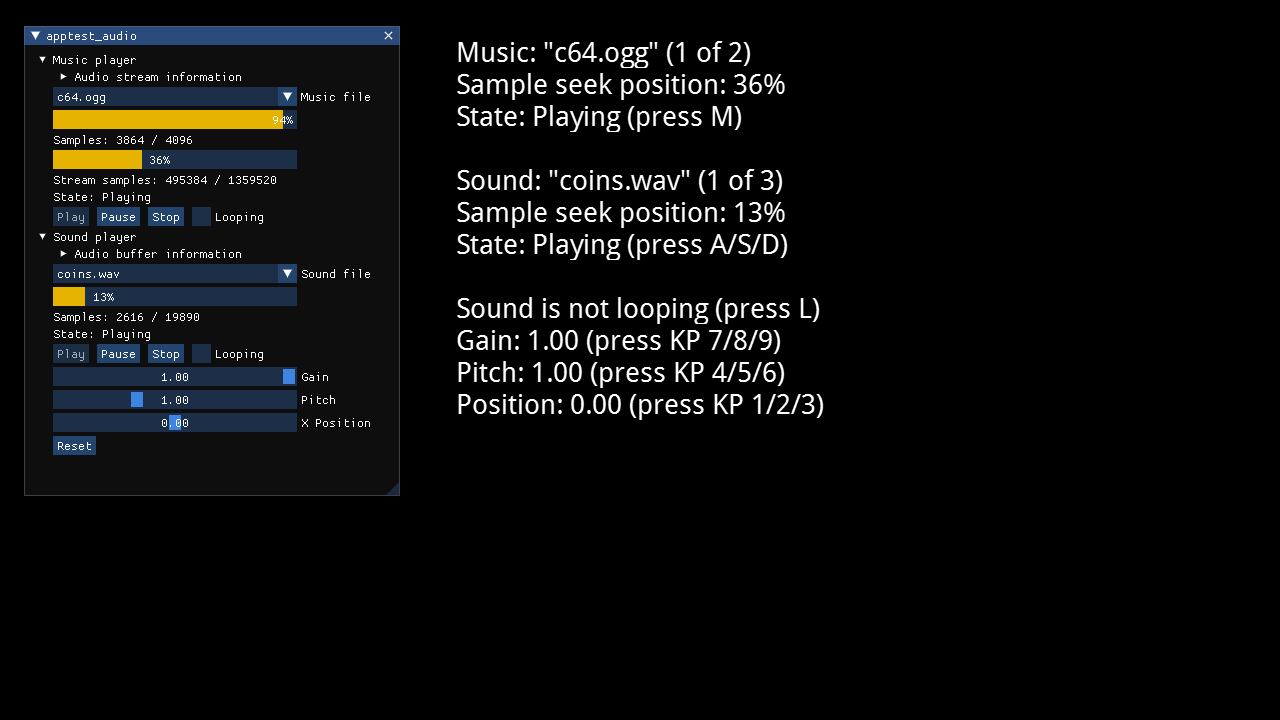
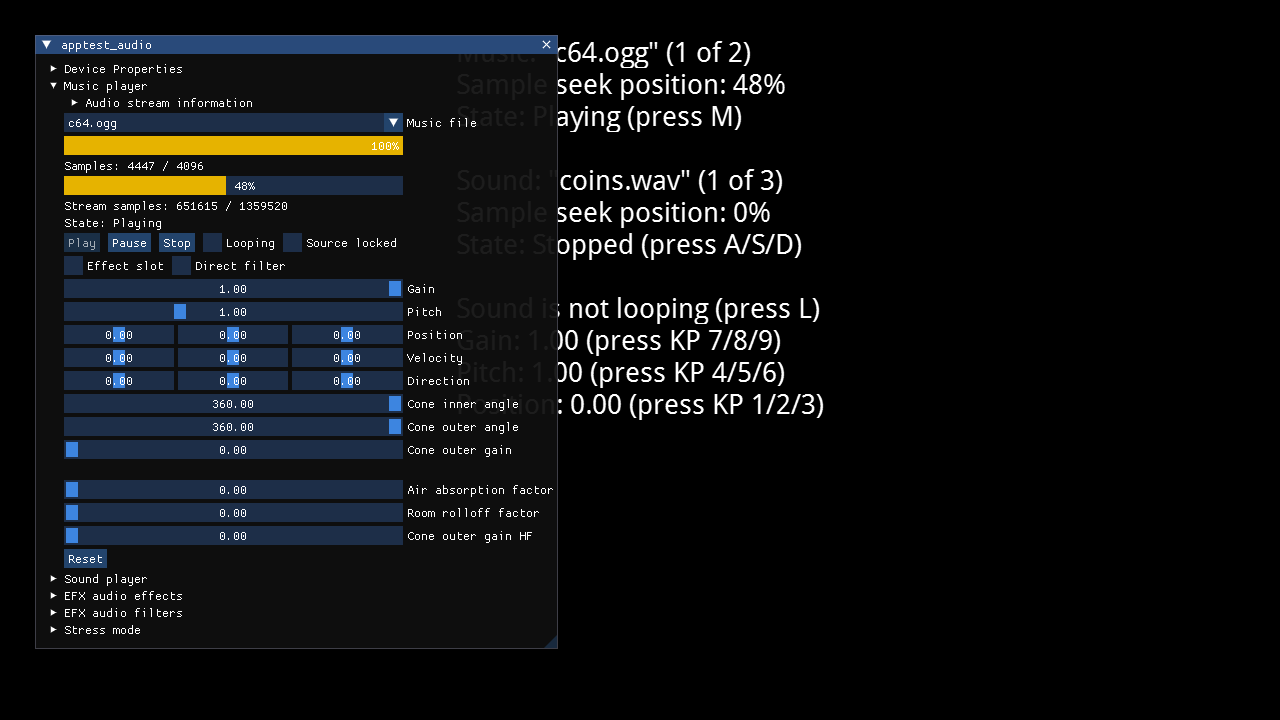
Add a new post in the news section with an image
- Update the changelog page
- Add the new features to the sound features page
- Update the web tests entry and screenshot of the audio apptest
- Reorder the long-term roadmap entries

diff --git a/web-tests.md b/web-tests.md
@@ -168,7 +168,7 @@ Pressing `Escape` on the keyboard will quit the application.
 ![apptest_audio](/img/apptests/apptest_audio.png "apptest_audio"){: .center-block :}
 
 This test shows how to play sound effects with an `AudioBufferPlayer`, and how to play music using an `AudioStreamPlayer`.
-It also allows you to play and pause the music or the sound and to change some properties.
+It also allows you to change some player properties and apply effects and filters.
 If the nCine has been compiled with ImGui some of those properties can be tweaked with an interface.
 
 **Controls**:
@@ -176,6 +176,7 @@ If the nCine has been compiled with ImGui some of those properties can be tweake
 - Pressing `Space` on the keyboard or `B` on the gamepad will play or pause the sound
 - Pressing `A`/`S`/`D` will play/stop/pause the sound
 - Pressing `L` will toggle sound looping
+- Pressing `T` will start or stop the stress test for audio sources
 
 Change the pitch, gain, and horizontal position of the sound with the numeric keypad or the gamepad:
 - Pressing `KP7`/`KP8`/`KP9` will decrease/reset/increase the pitch (use the right trigger on the gamepad)
@@ -185,6 +186,7 @@ Change the pitch, gain, and horizontal position of the sound with the numeric ke
 
 - Pressing the left/right arrow keys or D-pad directions, or the left bumper will change the music file
 - Pressing the up/down arrow keys or D-pad directions, or the right bumper will change the sound file
+- Pressing the `Start` on the gamepad will start or stop the stress test for audio sources
 - Use the mouse, the keyboard, the gamepad, or the touch screen to interact with the ImGui interface.
 - Pressing `CTRL + H` on the keyboard will show or hide the ImGui interface
 - Pressing `Escape` on the keyboard will quit the application

diff --git a/changelog.md b/changelog.md
@@ -4,6 +4,38 @@ title: Changelog
 permalink: /changelog/
 ---
 
+## June 2024
+
+### Breaking Changes
+
+### New Features
+- Added many new OpenAL source properties to the audio players
+- Add support for some useful OpenAL extensions
+  - `pause_device`, `deferred_updates`, `source_spatialize`
+- Added optional support for EFX effects and filters, also in the Lua API
+
+### Improvements
+- The sound sources are now arranged in a pool for the players to pick, fixing some issues with playing
+- Handling the `OV_HOLE` vorbisfile error code by continue decoding instead of fatal asserting
+- Added a stress test mode to `apptest_audio`
+- Add support for joystick axes mapped as buttons
+- The version of the integrated ImGui has been updated to [v1.90.8](https://github.com/ocornut/imgui/releases/tag/v1.90.8)
+- The version of the integrated Google Benchmark has been updated to [v1.8.4](https://github.com/google/benchmark/releases/tag/v1.8.4)
+
+### Fixes
+- Fixed a couple of alignment faults with Emscripten and some apptests
+
+## April 2024
+
+### Breaking Changes
+- Rename `nc::IAudioDevice::PlayerType::AUDIOSTREAM` to `nc::IAudioDevice::PlayerType::STREAM`
+
+## March 2024
+
+### Breaking Changes
+- The `freezePlayers()`/`unfreezePlayers()` methods of the audio device have been removed
+  - The Lua functions `freeze_players()`/`unfreeze_players()` have been removed too
+
 ## February 2024
 
 ### Improvements

diff --git a/features.md b/features.md
@@ -28,10 +28,11 @@ permalink: /features/
 
 ## Long-term roadmap
 
-- Add an ECS system with space partioning for scene culling
-- Abstract the rendering API and add a Vulkan implementation
+- Create a multi-threaded job system and expose it to the user API
+- Add a data oriented ECS system to parallelize entity updates
+- Create a cross-platform game editor with Dear ImGui
+- Abstract the rendering API and add a Vulkan backend implementation
 - Add a collision detection and response system or integrate Box2D
 - Separate game, input and audio update in different threads
-- Refine the thread-pool system and expose it to the user API
+- Add some sort of space partioning for scene culling
 - Add a 2D skeletal animation system
-- Create a cross-platform game editor with Dear ImGui

diff --git a/_features/sound.md b/_features/sound.md
@@ -11,4 +11,5 @@ _image: sound.png
 
 - Play memory sound buffers or stream music from disk
 - [WAVE](https://en.wikipedia.org/wiki/WAV) and [Ogg Vorbis](http://www.vorbis.com/) support with looping
-- Modify volume, pitch and panning with [OpenAL Soft](http://kcat.strangesoft.net/openal.html)
+- Modify gain, pitch, panning, and many more properties with [OpenAL Soft](http://kcat.strangesoft.net/openal.html)
+- Apply OpenAL EFX effects and filters such as reverb, chorus, echo, flanger, and a lot more

diff --git a/_posts/2024-06-27-one-thousand-stars.md b/_posts/2024-06-27-one-thousand-stars.md
@@ -1,0 +1,12 @@
+---
+layout: post
+title: One thousand stars!
+subtitle: A great recognition from the GitHub community
+tags: [News]
+---
+
+After thirteen years of development and five years on GitHub, the nCine has surpassed one thousand [stars](https://github.com/nCine/nCine/stargazers)! :star:
+
+![One thousand stars!](/img/posts/one_thousand_stars.png "One thousand stars!"){: .center-block :}
+
+
